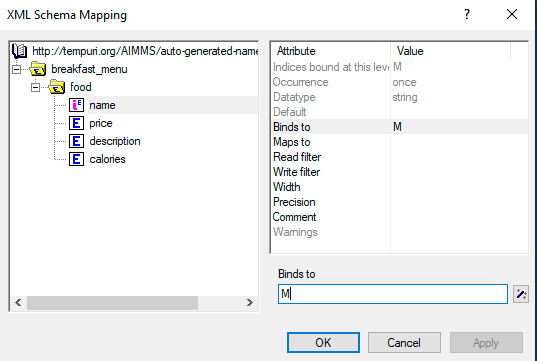
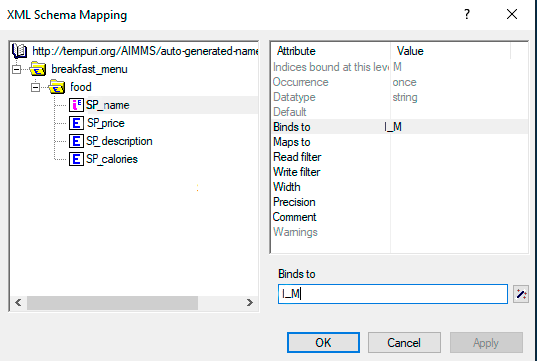
#293 #294 AIMMS US prefix conventions adhered to.

diff --git a/Articles/294/294-Online-XML-HTTP-library.rst b/Articles/294/294-Online-XML-HTTP-library.rst
@@ -41,7 +41,7 @@ After installing the HTTP library, the procedure we'll use follows these steps:
 
 #. Create the HTTP request
 #. Specify headers
-#. Set ``OutputFile``
+#. Set ``SP_OutputFile``
 #. Invoke the request
 
 
@@ -51,23 +51,23 @@ The code should look like this:
 .. code-block:: aimms
     :linenos:
     
-    requestURL:="https://www.w3schools.com/xml/simple.xml";
-    OutputFile:="Output.xml";
+    SP_requestURL:="https://www.w3schools.com/xml/simple.xml";
+    SP_OutputFile:="Output.xml";
     
     !Create the request and set the URL
-    web::request_create(requestId);
-    web::request_setURL(requestId,requestURL );
-    web::request_setMethod(requestId, "GET");
+    web::request_create(SP_requestId);
+    web::request_setURL(SP_requestId,SP_requestURL );
+    web::request_setMethod(SP_requestId, "GET");
     
     !header
-    web::request_getHeaders(requestId, HttpHeaders);
-    HttpHeaders['Accept'] := "application/xml";
-    web::request_setHeaders(requestId, HttpHeaders);
+    web::request_getHeaders(SP_requestId, SP_HttpHeaders();
+    SP_HttpHeaders(['Accept'] := "application/xml";
+    web::request_setHeaders(SP_requestId, SP_HttpHeaders();
     
     !Set the Output file and invoke the request.
-    web::request_setResponseBody(requestId, 'File', OutputFile);
+    web::request_setResponseBody(SP_requestId, 'File', SP_OutputFile);
     !invoke method
-    web::request_invoke(requestId,responseCode);
+    web::request_invoke(SP_requestId,P_responseCode);
 
 
 Let's break down the process in more detail.
@@ -87,41 +87,41 @@ Creating the request
 
 Before we create our HTTP request, we will need some parameters to store information about the request.
   
-Create three string parameters :``requestURL``, ``requestId``, and ``OutputFile``.
+Create three string parameters :``SP_requestURL``, ``SP_requestId``, and ``SP_OutputFile``.
 
 Once these objects are created, we can start coding the following in a procedure.
 
 .. code-block:: aimms
     :linenos:
 
-    !requestURL will define the aim of the request and OutputFile the answer file's destination.
-    requestURL:="https://www.w3schools.com/xml/simple.xml";
-    OutputFile:="Output.xml";
-    web::request_create(requestId);
-    web::request_setURL(requestId,requestURL);
-    web::request_setMethod(requestId, "GET");
+    !SP_requestURL will define the aim of the request and SP_OutputFile the answer file's destination.
+    SP_requestURL:="https://www.w3schools.com/xml/simple.xml";
+    SP_OutputFile:="Output.xml";
+    web::request_create(SP_requestId);
+    web::request_setURL(SP_requestId,SP_requestURL);
+    web::request_setMethod(SP_requestId, "GET");
 
     
-The ``request_create`` function creates a request and gives it an identification number which is stored in ``requestId``.
+The ``request_create`` function creates a request and gives it an identification number which is stored in ``SP_requestId``.
 Then, set the URL for the request using ``request_setURL`` and the request method to GET using ``request_setMethod``.
 
 Specifying headers
 ^^^^^^^^^^^^^^^^^^^^^^^^^^^^^^^^^^^^^^^^^^^^^^^^^^^^^^^^^^^^
 
-If you want to specify headers in your request, you can create a string parameter ``HttpHeaders`` indexed over ``web::httpHeader``.
+If you want to specify headers in your request, you can create a string parameter ``SP_HttpHeaders(`` indexed over ``web::httpHeader``.
 
 .. code-block:: aimms
     
-    StringParameter HttpHeaders {
+    StringParameter SP_HttpHeaders( {
         IndexDomain: web::httpHeader;
     }
 
 
-Using the ``request_getHeaders`` procedure, we can extract the default settings for this request and store them in ``HttpHeaders``.
+Using the ``request_getHeaders`` procedure, we can extract the default settings for this request and store them in ``SP_HttpHeaders(``.
 
 .. code-block:: aimms
 
-    web::request_getHeaders(requestId, HttpHeaders);
+    web::request_getHeaders(SP_requestId, SP_HttpHeaders();
 
 The ``web::HttpHeader`` index contains the following elements: 
 
@@ -149,22 +149,22 @@ Now that we have access to these headers, we need to change their values and set
 .. code-block:: aimms
     :linenos:
 
-    HttpHeaders['Accept'] := "application/xml";
-    web::request_setHeaders(requestId, HttpHeaders);
+    SP_HttpHeaders(['Accept'] := "application/xml";
+    web::request_setHeaders(SP_requestId, SP_HttpHeaders();
 
 Here, we tell the server we only want XML files.
 
-Setting the OutputFile
+Setting the SP_OutputFile
 ^^^^^^^^^^^^^^^^^^^^^^^^^^^^^^^^^^^^^^^^^^^^^^^^^^^^^^^^^^^^
 
 .. code-block:: aimms
 
-    web::request_setResponseBody(requestId, 'File', OutputFile);
+    web::request_setResponseBody(SP_requestId, 'File', SP_OutputFile);
 
 The ``request_setResponseBody`` second argument can either be ``'File'`` (to get the response body) or ``'None'`` (to ignore the response body).
 The response body represents the data the server gives in response to your request. Use this method to specify where the data should be stored.
 
-When you send a request to a server, it gives you back an answer containing a status code. Here, this code is stored in a parameter called ``responseCode``.
+When you send a request to a server, it gives you back an answer containing a status code. Here, this code is stored in a parameter called ``P_responseCode``.
 
 .. note::
 
@@ -176,7 +176,7 @@ We're finally ready to send our request using the ``web::request_invoke`` proced
 
 .. code-block:: aimms
 
-    web::request_invoke(requestId,responseCode);
+    web::request_invoke(SP_requestId,P_responseCode);
 
 
 Congratulations, you should now have your XML file stored as ``output.xml`` in the project folder!

diff --git a/Articles/293/293-extracting-data-from-XML.rst b/Articles/293/293-extracting-data-from-XML.rst
@@ -93,17 +93,17 @@ In this case, we will create the following:
 
 .. code::
 
-    Set Meal {
-        Index: M;
+    Set S_Meal {
+        Index: I_M;
     }
-    StringParameter Price {
-        IndexDomain: M;
+    StringParameter SP_Price {
+        IndexDomain: I_M;
     }
-    StringParameter Desription {
-        IndexDomain: M;
+    StringParameter SP_Desription {
+        IndexDomain: I_M;
     }
-    Parameter Calories {
-        IndexDomain: M;
+    Parameter P_Calories {
+        IndexDomain: I_M;
     }
 
 
@@ -146,11 +146,11 @@ Click on an element or a parameter folder in the elements tree to view a list of
 
 * ``write filter``: This attribute specifies if you want to overwrite the data from your XML file using the value of the AIMMS identifier the element has been mapped to. Set the value ``0`` if you don't want AIMMS to overwrite, or ``1`` if you do.
 
-First we need to set the element to bind to the index ``M`` of the ``Meal`` set. Here, ``M`` is bound to the element ``Name``. 
+First we need to set the element to bind to the index ``I_M`` of the ``S_Meal`` set. Here, ``I_M`` is bound to the element ``SP_Name``. 
 
 Click on the attribute you want to change and enter the value you want to put in the text field. (You can use the wizard tool for auto-completion.)
 
-Click *Apply*. Because ``Name`` is in the same branch as ``Price``, ``Description``, and ``Calories``, we have now access to their data to fill ``Meal`` parameters.
+Click *Apply*. Because ``SP_Name`` is in the same branch as ``SP_Price``, ``SP_Description``, and ``P_Calories``, we have now access to their data to fill ``S_Meal`` parameters.
 
 Repeat this process with the other elements and map them to their respective parameters using the ``maps-to`` attribute.
 
